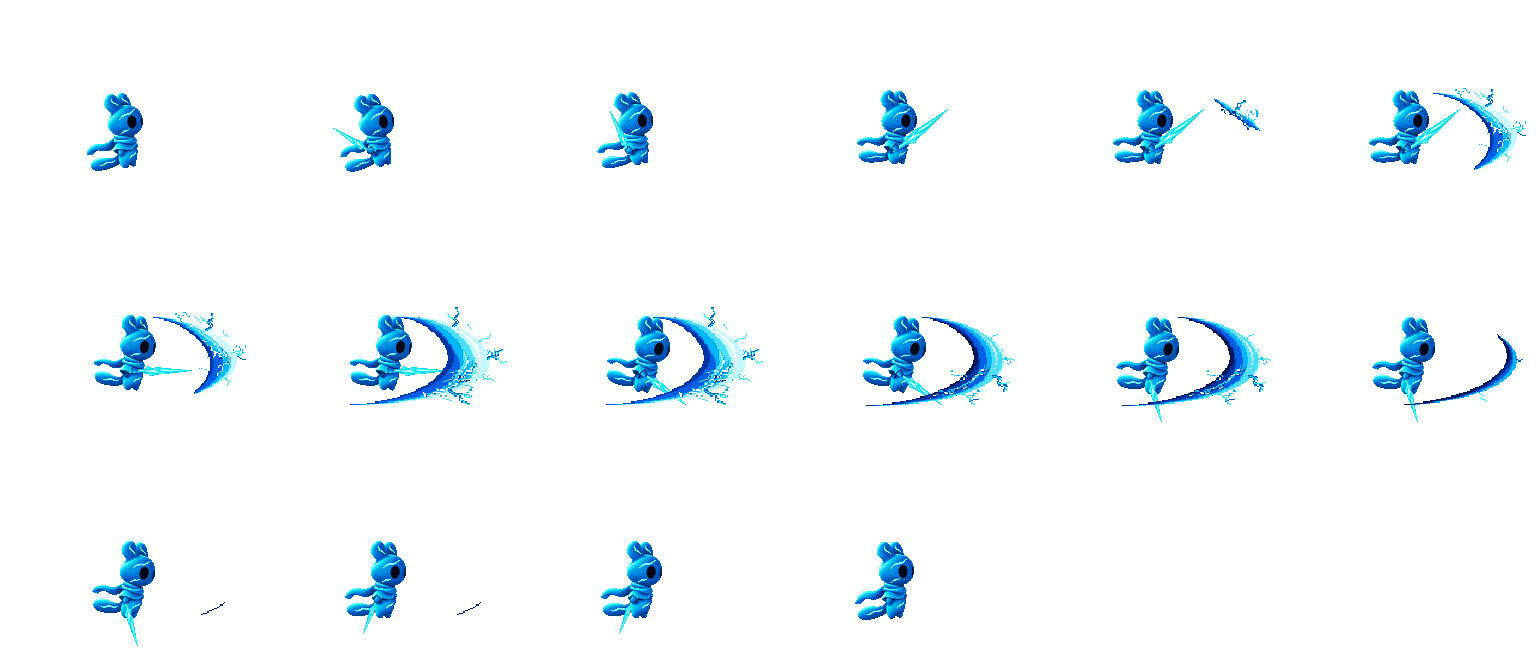
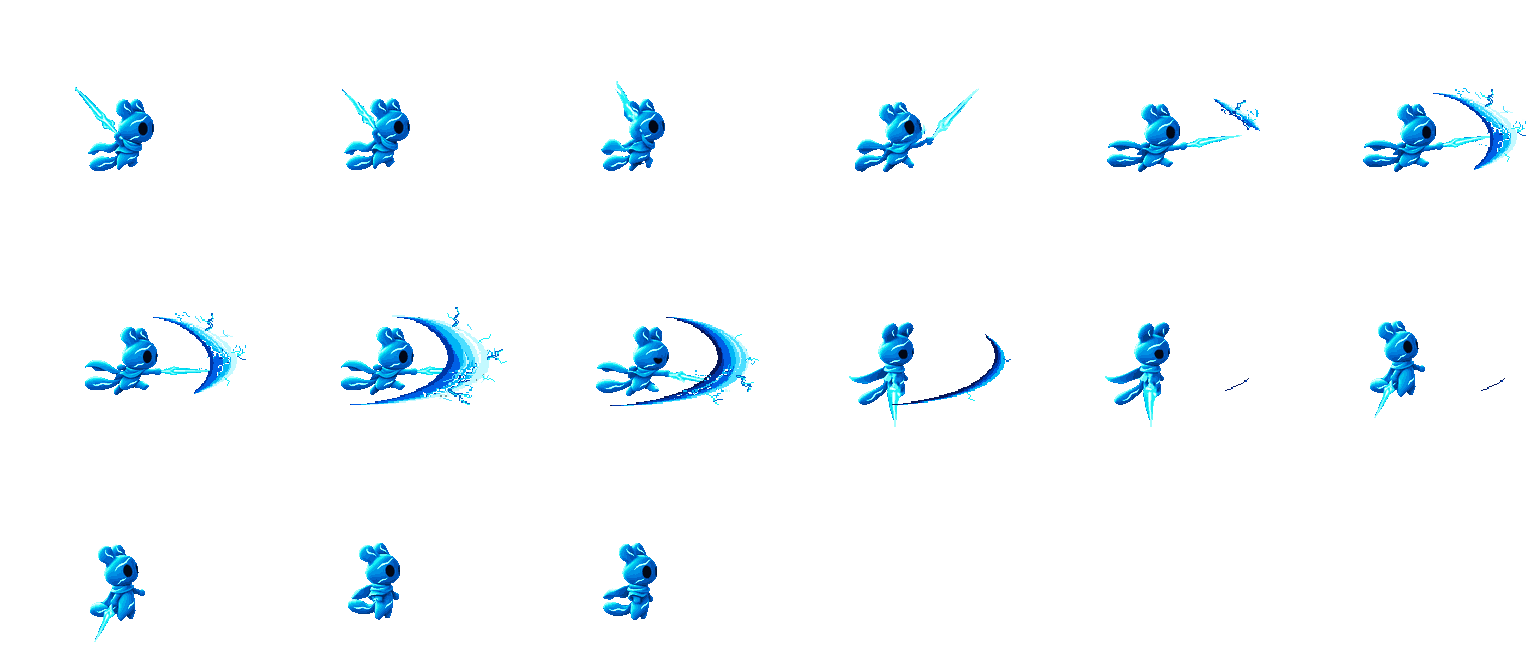
fix(art): 전신 동작으로 공중 검격과 아래 베기 교체
타격 원화를 제작하고 시작과 종료 자세를 고정한 로컬 영상에서 준비, 타격, 회수 셀을 골랐다. 공중 검격은 어깨와 팔꿈치가 손을 앞쪽으로 보내고, 아래 베기는 정면으로 돌아오면서 팔을 발밑으로 뻗는다.

원본 영상과 합성 시트를 비교해 온몸이 움직이는 프레임을 골랐다. 실제 SDL에서 공중 일반 검격과 아래 베기의 헛치기·적중·반동을 캡처해 이전 프레임과 눈으로 대조했다.

diff --git a/assets/warden/attack-source/build.py b/assets/warden/attack-source/build.py
@@ -1,15 +1,14 @@
-"""Bake the air and downward attacks from joint-keyed poses and pixelfx layers."""
+"""Composite the selected airborne animation cels with the sword effects."""
 from argparse import ArgumentParser
 import json
 from pathlib import Path
 
 from PIL import Image
 
-from poses import AIR, AIR_TIMES, DOWN, draw
-
 ROOT = Path(__file__).resolve().parents[3]
 WARDEN = ROOT / 'assets/warden'
 ART = ROOT / 'art/warden'
+AIR_TIMES = [0, 33, 59, 85, 100, 126, 160, 180, 205, 235, 263, 300]
 SIZE = (256, 224)
 PIVOT = (128, 136)
 COLUMNS = 6
@@ -59,7 +58,7 @@ def down_layer(effect):
     cropped = rotated.crop((left, top, right, bottom))
     scaled = cropped.resize((round(cropped.width * stretch), round(cropped.height * depth)),
                              Image.Resampling.NEAREST)
-    target = (104 + round((left - pivot_x) * stretch), 84 + round((top - pivot_y) * depth))
+    target = (104 + round((left - pivot_x) * stretch), 77 + round((top - pivot_y) * depth))
     return scaled, target
 
 
@@ -77,7 +76,8 @@ def main():
         expected.alpha_composite(effects[fx_index])
         assert expected.tobytes() == tile(ground, fx_index + 5, SIZE, COLUMNS).tobytes(), fx_index
 
-    poses = [draw(key, SIZE, (128, 158)) for key in AIR]
+    air_art = Image.open(WARDEN / 'attack-source/air-poses.png').convert('RGBA')
+    poses = [tile(air_art, i, SIZE, COLUMNS) for i in range(len(AIR_TIMES) - 1)]
     fx_end = GROUND_FX_START + len(effects) * GROUND_FX_FRAME_MS
     edges = sorted(set(AIR_TIMES).union(range(GROUND_FX_START, fx_end + 1, GROUND_FX_FRAME_MS)))
     frames = []
@@ -90,9 +90,8 @@ def main():
     sheet(frames, SIZE, COLUMNS).save(out / 'air_attack.png')
 
     down_size = (208, 208)
-    down = [draw(key, down_size, (104, 96)) for key in DOWN]
-    pose_path = out / 'poses.png' if out != WARDEN else out / 'downstrike-source/poses.png'
-    sheet(down, down_size, 5).save(pose_path)
+    down_art = Image.open(WARDEN / 'downstrike-source/poses.png').convert('RGBA')
+    down = [tile(down_art, i, down_size, 5) for i in range(10)]
     for frame_index, fx_index in enumerate((0, 2, 3, 4, 5), start=3):
         down[frame_index].alpha_composite(*down_layer(effects[fx_index]))
     sheet(down, down_size, 5).save(out / 'downstrike.png')

diff --git a/assets/warden/README.md b/assets/warden/README.md
@@ -8,7 +8,7 @@
 | run_left.png | art/warden/provisional-approved/run-v4/run_left/sheet.png | 618ef3377b2682ee6d15ab4052a208f041562adcaed406a0361977ca7460940e |
 | run_right.png | art/warden/provisional-approved/run-v4/run_right/sheet.png | c29d16562b7df8a8ec927b031ef1589bdf6252467afb648f1537af60977fc3aa |
 | attack.png | `art/warden/ground-step-slash-v1` 몸체 위에 `art/warden/ground-crescent-discharge-refined/slash.png`의 Pixelfx 분기 방전 초승달을 합성 | 0fc07afb21d30d24d5b37127a44baa3bc838225107085329f30bf53f2f110073 |
-| air_attack.png | `attack-source/build.py`에서 새 공중 관절 자세에 지상 검격의 pixelfx 궤적과 방전 6프레임을 동일 크기와 발 기준점으로 합성 | 9cbd43e2870ae190c648f48a66ba5d8089ffcf0dd04b306587df7110d325a00d |
+| air_attack.png | `attack-source/air-poses.png`의 로컬 ComfyUI LTX-2.5 전신 자세에 지상 검격의 pixelfx 6프레임을 합성. [영상·타격 원화](../../art/warden/full-body-air-attacks/) | 7933a97b28c43412fe93278466f413a4d742464cf14b4f5d53d84dba558e2469 |
 | prepare_idle_left.png | art/warden/provisional-approved/dash-eye-cape-v1/prepare_idle_left/sheet.png | efb9df7c2c976ace57b8a0d2448dac120bf4616e414edaa58bac91e12ae1ce1e |
 | prepare_idle_right.png | art/warden/provisional-approved/dash-eye-cape-v1/prepare_idle_right/sheet.png | 3ba433a4573f4cf45a085579ab10bf5a355c72e528446974023bc0fff342c3d0 |
 | prepare_run_left.png | art/warden/provisional-approved/dash-eye-cape-v1/prepare_run_left/sheet.png | f4db13401e9771a363a726689ad5ab573b1e519955e07a8eba3e757c5023f4f5 |
